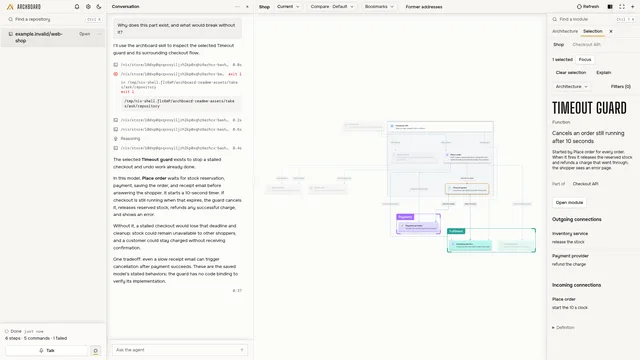
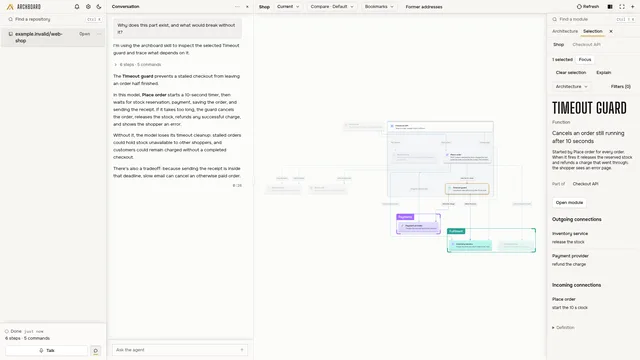
docs: refresh the canonical agent explanation clip

Changed region(s): [[0.1562, 0.1222, 0.375, 0.7944], [0.0625, 0.9167, 0.125, 0.9472]]

diff --git a/backlog/tasks/task-549.24 - Make-canonical-models-the-default-and-retire-live-board-paths.md b/backlog/tasks/task-549.24 - Make-canonical-models-the-default-and-retire-live-board-paths.md
@@ -5,7 +5,7 @@ status: In Progress
 assignee:
   - '@codex-parent'
 created_date: '2026-10-26T05:26:00Z'
-updated_date: '2026-10-28T19:34:00Z'
+updated_date: '2026-10-28T19:37:00Z'
 labels:
   - ready-for-agent
 dependencies:
@@ -430,4 +430,6 @@ The final workbench browser lane passes six cases with 147 assertions across typ
 Eleven non-Codex README producers completed. Root inspected both banners, the social card, light/dark example diagrams, nine thumbnails, and four composited frames for each of eight clips, including their exact endings. A brightened empty canvas region stays one color. The two code diagnostics now use module terminology without changing machine fields; 18 existing code-check cases and 51 assertions pass. The code-evidence thumbnail includes the full module heading through its existing crop selector. Scoped source lint, formatting and whitespace pass. All eight refreshed clips are below 10 MB and returned attachment URLs; README links now name those uploads. The upload receipt wrapper failed after URL creation, so it records missing exit codes and no upload was repeated. Twelve of sixteen assets are current; three narrated replays and the ask clip remain. Code check subject vKEsyHFk/HBlhIeSD#5SMX69gS keeps the same meaning. No architecture proposal or source-vault edit is needed. Proposal lifecycle review fixes are ready for their merger; final acceptance remains open.
 
 The proposal lifecycle review is integrated at signed b2ea7a71. Root reviewed eight remaining shared browser files with no material Standards or Spec findings. Exact file versions and reused browser/type evidence are in task-549.24-shared-browser-review.json. Three narrated README videos now replay with the current renderer. Their speech and talk bytes remain exact. Root inspected the first, middle, and final beat of each video, then uploaded each accepted file once. README links now name those uploads. The ask clip refresh and migration review remain active. No acceptance criteria, lifecycle, source vault, archive publication, or PR state changed.
+
+The final README media refresh is complete at this checkpoint. The real-agent ask clip exits successfully and shows the selected Timeout guard with a matching answer. Root inspected four clip frames and the thumbnail. Its accepted upload exits 0, and README now links it. The final readme:check result is 16 current assets and zero stale assets. Narrated and ask receipts, hashes, and visual evidence remain in the shared state directory. This closes the media refresh, but remaining reviews, the complete integration gate, archive publication, task acceptance, and PR readiness remain open.
 <!-- SECTION:NOTES:END -->

diff --git a/README.md b/README.md
@@ -187,7 +187,7 @@ Modules can link to source files, functions, or classes. **Open code** follows t
 
 Select a module or relationship and ask for an explanation. The local agent receives the exact reading and selected subjects. Toolbar and context-menu actions keep the answer beside that captured architecture. Press **Talk** to ask the same question aloud.
 
-<img src="https://github.com/user-attachments/assets/ad57bbb2-0ed1-4b9d-8e37-27de8c5d764b" width="100%" alt="The Timeout guard is selected. A question about why this part exists and what breaks without it is typed into the composer of the conversation, which opens beside the navigator. The conversation fills with an answer about the selected architecture.">
+<img src="https://github.com/user-attachments/assets/375a2075-a445-4ec7-89f8-4d22dd87b908" width="100%" alt="The Timeout guard is selected. A question about why this part exists and what breaks without it is typed into the composer of the conversation, which opens beside the navigator. The conversation fills with an answer about the selected architecture.">
 
 <p align="center"><sub>A real answer from a Codex agent, typed in the conversation. The wait for the answer is sped up.</sub></p>
 
